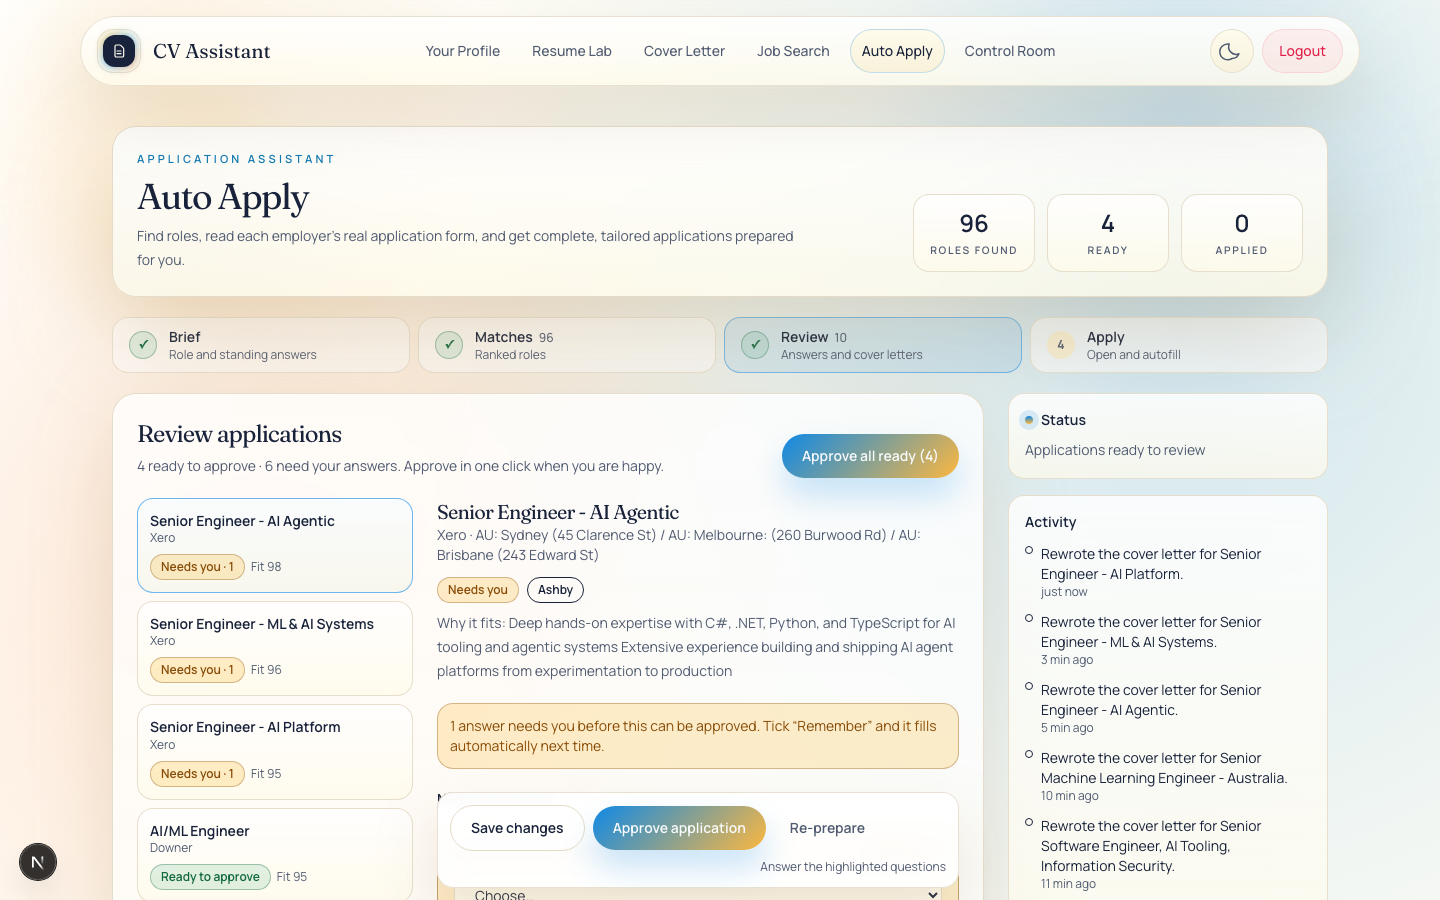
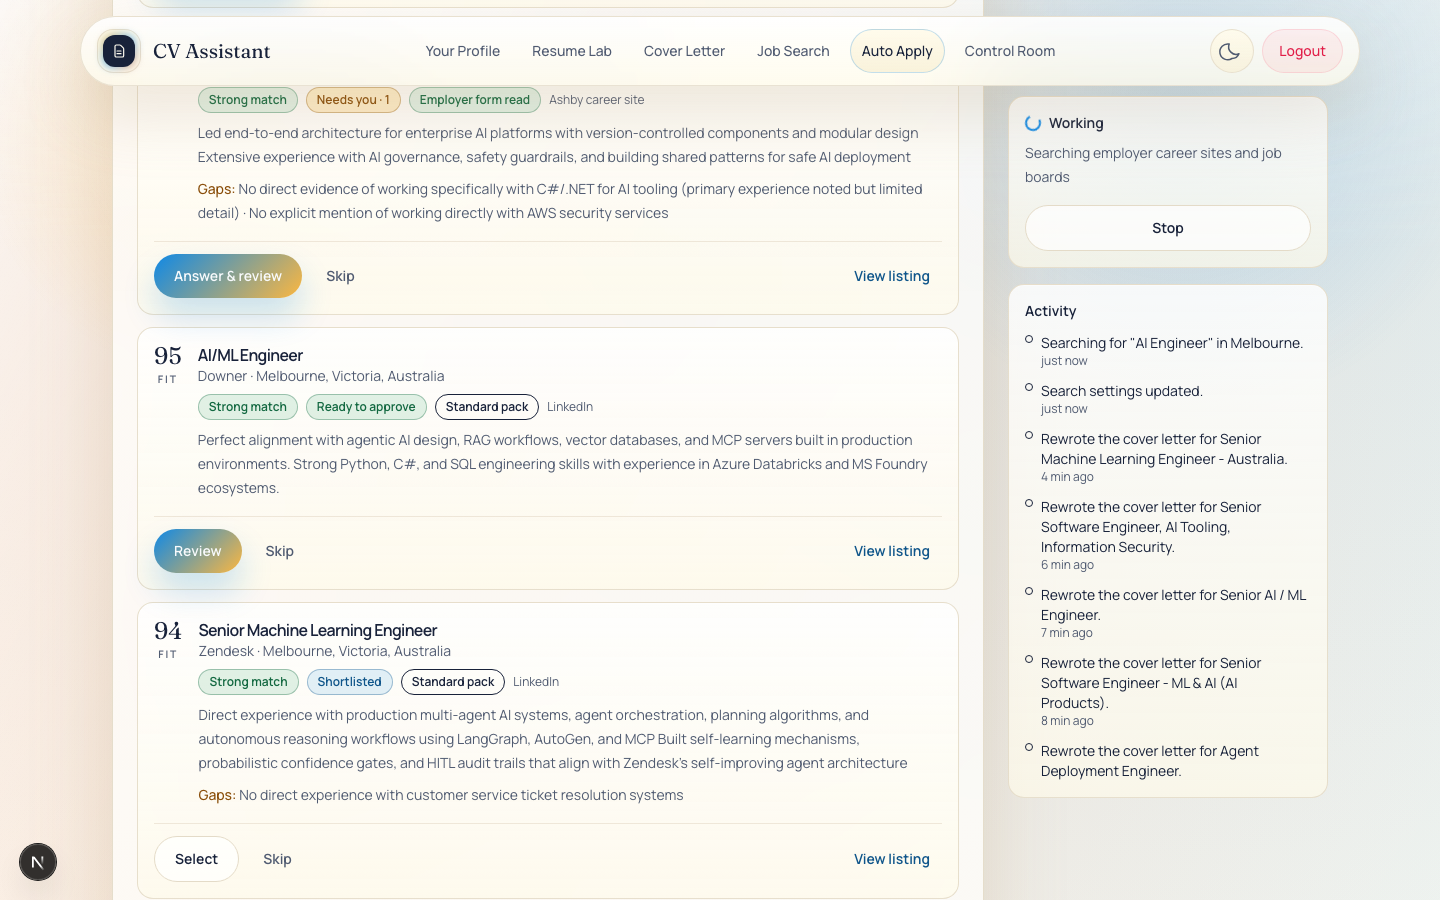
Rewrite measured-results section as a single current-state summary

Changed region(s): [[0.0625, 0.0933, 0.9375, 1.0], [0.125, 0.0, 0.2188, 0.0311]]

diff --git a/cv-assistant/docs/auto-apply-quality-metrics.md b/cv-assistant/docs/auto-apply-quality-metrics.md
@@ -21,35 +21,29 @@ Gaps found against these go in the audit reports; each fix is retested on the re
 
 ## Measured on the real app (lelekhoa1812, live NVIDIA NIM)
 
-Latest clean live run: all 10 prepared jobs on the original model chain with the stock-filler and "same organization" guards (the stronger-first-draft experiment was reverted, see below). Every letter was read in full.
+State after commit bfb9c90. The gate is a full read of 10 live letters, not Promptfoo: Promptfoo on a three-item fixture did not predict real-job quality.
 
-- Structure (metric 7): 10 of 10 are 189-284 words, open with a greeting, name the company and role, and end with a sign-off.
-- Fixed since the previous run: Decagon is no longer boilerplate (no "I am excited to apply", "What sets me apart", "senior technical stakeholders"); Neara no longer says "In the same organization".
-- Still open on full read:
-  - Xero 2840 credits CLARA (a Pythera project) to Harry the Hirer.
-  - Airwallex 281e opened "As Senior Software Engineer for AI Tooling, I led ..." (the posting's title as experience) and mentions Kubernetes clusters that the CV does not show. A flag and a repair for the title-as-experience pattern were added after this run, so that run did not exercise them.
-  - Airwallex 281e and Downer 282b used "Dear Recruiter,". A greeting normaliser was added after this run.
-  - Downer 282b lists fluency in C# and SQL and familiarity with CrewAI and Microsoft Agent Framework, which echo the posting.
-- Claim-check warnings (warn only): 4 of 10 letters (2840, 2835, 2861 earlier run, 281e); at least one is a false positive (2835, Mizco).
-- Latency (metric 8): 62-111 s, median about 72 s. The p95 target of 60 s is not met.
+**Last full live read (code 2649022), 10 letters**
+- 5-6 of 10 read as clean: 2840, 282b, 2856, 2826, 281e, and 2861 apart from one posting echo.
+- Defects seen: single-block letters (281f, 2823); the posting's title used as employment (2835, 281f); "systems programming" and mentoring claims echoing the posting (281f, 2835); two letters of 158-167 words, correctly flagged short; a contact line under the name wrongly flagged as a missing sign-off (284b).
+- Latency (metric 8): 57-128 s per letter. The p95 target of 60 s is not met.
+- Claim-check warnings (warn only): on roughly 3-4 of 10 letters; at least one is a false positive.
 
-Promptfoo (`npm run eval:letters`): after best-of-3 drafts and the detector fix, 2/3 then 3/3 over two runs (5 of 6 cases). The remaining failure was a real third-person letter (131 words). Earlier runs (2/3, 2/3, 0/3, 0/3, 2/3, 0/3) were partly distorted: a first version of the third-person detector counted the sign-off name as "name in the body", so several earlier "third-person" failures and the 0/3 runs were false positives of that detector, now fixed with a test. Real failures seen: third-person openings, job title as experience, stock filler, short letters.
+**Fixed since that read (unit tests, 50 pass; not yet re-read live)**: contact lines no longer trip sign-off or fragment checks; walls of text are split into paragraphs; "<Title> at <Company>, I ..." is repaired to "I ..."; "Subject:" lines and repeated greetings are removed; garbled company names and stray "I at <Company>:" labels are repaired; stock filler, "in the same organization", title-as-experience, third-person and requirement-talk are flagged.
 
-Best-of-3 drafts were tried and reverted. Promptfoo went 2/3 then 3/3 with it, but two live runs on the real app got worse: the rotated model orders put weaker models first and the draft was chosen by guard score, not prose quality. Live letters had garbled sentences ("As Senior Engineer - AI Platform candidate, my production-grade architect ..."), a closing sentence after the sign-off, contact lines in the body, and invented duties. Lesson: Promptfoo on a three-item fixture does not predict real-job quality; the live 10-letter read is the gate.
+**Promptfoo (`npm run eval:letters`)**: varies run to run, 1/3 to 3/3 on the latest code. Typical failures are a model slip the retry did not fix (duplicate greeting, "I am excited") and padding with plausible invented detail ("improving customer satisfaction"). The small first-draft model still invents detail that no deterministic guard catches, so letters remain drafts that the applicant must review.
 
-Latest live run (best-of-3 reverted, guards kept), 10 letters, 94-121 s each: all have a greeting; 5 of 10 are clean on read. Defects seen: a garbled company name ("Airwalexecss", 281e), "I at Xero: I designed ..." (2856), a run-on title sentence (281f), requirement talk ("matching your requirement for ...", 284b), posting echoes and a contact line in the body (2861, 281e), and a 148-word letter with invented mentoring (2823, flagged short). After this run these were addressed with tested deterministic repairs and detectors: stray "I at <Company>:" label, garbled company name restored, run-on title sentence, "matching/addressing your need/requirement" talk. Not yet re-read live.
+**Thin evidence (Contoso Cloud)**: an honest letter is short. Padding to 170 words made the model invent duties (mentoring, encryption, audit trails), which no guard caught. The app now adds "the letter is short because your profile gives little to draw on" to the review warnings, and the eval accepts 100-169 words only when that warning is present.
 
-Final live run on the pushed code (2649022), 10 letters, 57-128 s each: 5-6 of 10 read as clean (2840, 282b, 2856, 2826, 281e, and 2861 apart from one posting echo). Defects found: contact lines and a missing sign-off flagged on 284b (a detector false alarm: contact details under the name are by design), single-block letters (281f, 2823), the posting's title used as employment (2835, 281f), "systems programming" and mentoring claims echoing the posting (281f, 2835), and two letters of 158-167 words that were correctly flagged short. After that run these were handled with tested changes: contact lines no longer trip the sign-off or fragment checks, walls of text are split into paragraphs, "<Title> at <Company>, I ..." is repaired to "I ...", and "Subject:" lines and repeated greetings are removed. Those changes are covered by unit tests (50 pass) but not yet re-read on a live run.
+**Experiments tried and reverted**
+- Stronger first draft (`nemotron-3-ultra` first): better on Promptfoo for one run, worse live (greeting without a comma, "I - I architected", title as identity, requirement talk, missing sign-offs).
+- Best-of-3 drafts on rotated model orders: Promptfoo 2/3 then 3/3, but worse live (weaker models first, chosen by guard score not prose quality; garbled sentences, closers after the sign-off, invented duties).
+- Longer expansion window with a looser claim gate: garbled prose.
+- Keeping a sentence to stay above 170 words let "I hold a Master's degree in Computer Science" through (copied from the posting's "a plus"). Unsupported sentences are always stripped; the last claim-clean full-length draft is kept if verifier pruning would shorten the letter.
 
-Promptfoo variance after these changes: 3/3, then 1/3 on the next run (a "Subject:" line with a duplicate greeting, "I am excited", and padding with invented elaboration such as "improving customer satisfaction"). The small first-draft model still invents plausible detail that no deterministic guard catches, so letters remain drafts that the applicant must review. This is the main open quality risk.
+**Open**
+- Posting echoes with no CV support (Contoso: "ability to build and own security tooling"; Downer: C#, CrewAI) are warned about by the model check but not caught by a deterministic guard.
+- Xero 2840 once credited CLARA (a Pythera project) to Harry the Hirer.
+- Latency is above target.
 
-Still open: Contoso's letter says its triage bot "demonstrates my ability to build and own security tooling", a stretch copied from the posting. The model-based claim check warns about it, but the deterministic guard does not.
-
-Thin-evidence policy (Contoso Cloud, whose CV items cover only a few lines): an honest letter is short. Padding it to 170 words made the model invent duties ("mentoring junior engineers", "access controls, encryption protocols, audit trails"), which no guard caught, and that run scored 3/3 only because the padding passed. The rebuild was reverted. The app now adds "the letter is short because your profile gives little to draw on" to the review warnings, and the eval accepts 100-169 words only when that warning is present.
-
-Experiments recorded:
-- Stronger first draft (`nemotron-3-ultra` first): Promptfoo improved for one run, but the live run was worse (greeting without a comma, "I - I architected", title as identity, requirement talk, a chat closer, missing sign-offs, lengths 137-342 words). Reverted to the original chain.
-- Longer expansion window with a looser claim gate: garbled prose. Reverted.
-- Keeping a sentence to stay above 170 words let "I hold a Master's degree in Computer Science" through. Reverted; unsupported sentences are always stripped, and the last claim-clean full-length draft is kept if verifier pruning would shorten the letter.
-
-Letters remain drafts for the applicant to review. The mission is NOT complete at "best quality": first-draft reliability, the CLARA misattribution and posting echoes remain.
+Letters remain drafts for the applicant to review. The mission is NOT complete at "best quality".

diff --git a/cv-assistant/docs/verification-run.md b/cv-assistant/docs/verification-run.md
@@ -30,7 +30,7 @@ This page records what was actually run against the live app and the eval suite 
 | Auto Apply: prepare | Not run | The prepare step would overwrite or add to the existing applications on this account, so it was not run. The behaviour is documented from code. |
 | Control Room: overview and lead | Overview, one lead detail opened | Pass for viewing. The specialist workflow was not run. |
 | Control Room: specialist workflow | Run once on one lead (`POST /api/control-room/leads/<id>/orchestrate`, 200 in about 5 s) | Pass with a caveat. The lead ended `scored`, fit 43, recommendation `skip`, `analysisSource: fallback`, `model: heuristic`. The LLM strategist did not produce the result and the response does not record why. The lead is a Talent.com record whose title is "Show more" and whose company is empty, so the result is not meaningful. Each run appends events and an evaluation to the lead. |
-| Promptfoo cover-letter eval | `npm run eval:letters`, 3 cases, live model calls | **Fail: 1 of 3 passed.** See below. |
+| Promptfoo cover-letter eval | `npm run eval:letters`, 3 cases, live model calls, run twice | **Run 1: 1 of 3 passed. Run 2: 3 of 3 passed.** The same inputs gave different outcomes, so the eval is not stable. See below. |
 | Live browser scripts | Not run | They fill real employer forms (Greenhouse, Ashby and Lever) with name and contact details. That needs explicit permission from the user first. Not requested yet. |
 
 ## Job Search findings (live run)
@@ -50,15 +50,17 @@ Export file: stored in the scratchpad of the run, not in the repository. Command
 
 | Case | Result | Failing check | Detail |
 |---|---|---|---|
-| Northwind Labs, AI Engineer | Fail | Defect check: refers to the applicant by name in the body (third person) | 249 words. The check is a regression for a known defect. |
-| Contoso Cloud, Senior Machine Learning | Fail | Defect check: no sign-off with the applicant's name | 241 words. Claim check also listed three warnings, though the unsupported list was empty. |
-| Fabrikam, Software Engineer | Pass | None | 121 words, flagged to the applicant as short because the profile is thin. |
+| Northwind Labs, AI Engineer (run 1) | Fail | Defect check: refers to the applicant by name in the body (third person) | 249 words. The check is a regression for a known defect. |
+| Contoso Cloud, Senior Machine Learning (run 1) | Fail | Defect check: no sign-off with the applicant's name | 241 words. Claim check also listed three warnings, though the unsupported list was empty. |
+| Fabrikam, Software Engineer (run 1) | Pass | None | 121 words, flagged to the applicant as short because the profile is thin. |
 
 The three warnings on the Contoso case quote claims ("architected scalable ETL workflows...", "became the backbone of the support team...", "integrating model inference steps...") that the warning text says the candidate evidence does not state. The unsupported list is empty for that case, so these are warnings only. They are the same kind of internal warning noise listed in `docs/auto-apply-quality-metrics.md`.
 
 The eval asserts 170 to 400 words. The letter prompt asks for 250 to 350 words. The two documents disagree, and this is recorded in the cover-letter feature doc.
 
-**Status:** open. The letter agent is not changed by this documentation work. A fix needs a decision from the user.
+**Rerun:** a second run of the same suite passed all three cases (`Results: 3 passed`, exit 0). The first two defects did not recur on that run. Model output varies between runs, so a single eval result is not a reliable pass or fail signal.
+
+**Status:** the first run's defects are real occurrences of the failure, and the letter agent is not changed by this documentation work. The eval should be run several times before a result is trusted. Any fix needs a decision from the user.
 
 ## Data written by these runs
 
